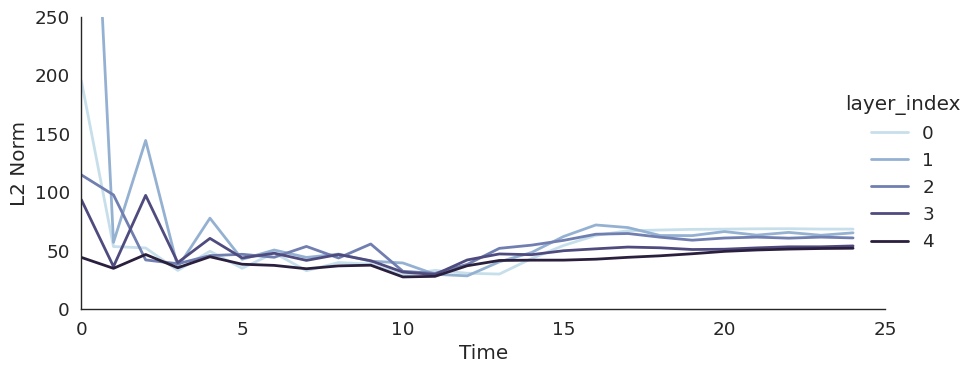
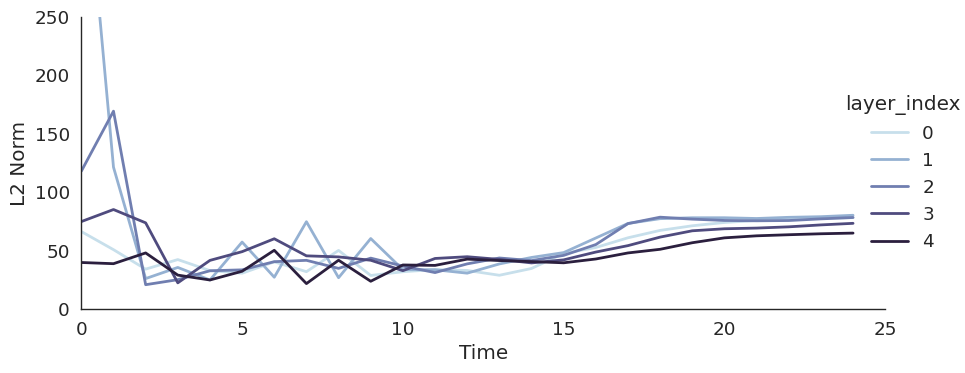
high prelabel

Changed region(s): [[0.0622, 0.2654, 0.9016, 0.7668], [0.0933, 0.059, 0.1244, 0.1475]]

diff --git a/RecurrentFF/model/hidden_layer.py b/RecurrentFF/model/hidden_layer.py
@@ -245,30 +245,14 @@ class HiddenLayer(nn.Module):
         if isTraining:
             activations_dim = self.train_activations_dim
 
-            # TODO: remove
-            if torch.equal(self.stable_state_activations, torch.zeros(1, 1).to(self.settings.device.device)):
-                pos_activations_current = torch.zeros(
-                    activations_dim[0], activations_dim[1]).to(
-                    self.settings.device.device)
-                pos_activations_previous = torch.zeros(
-                    activations_dim[0], activations_dim[1]).to(
-                    self.settings.device.device)
-                neg_activations_current = torch.zeros(
-                    activations_dim[0], activations_dim[1]).to(
-                    self.settings.device.device)
-                neg_activations_previous = torch.zeros(
-                    activations_dim[0], activations_dim[1]).to(
-                    self.settings.device.device)
-
-            else:
-                pos_activations_stable_state = retrieve_random_stable_state_activations(self.stable_state_activations,
-                                                                                        self.settings.data_config.train_batch_size)
-                neg_activations_stable_state = retrieve_random_stable_state_activations(self.stable_state_activations,
-                                                                                        self.settings.data_config.train_batch_size)
-                pos_activations_current = pos_activations_stable_state.clone()
-                pos_activations_previous = pos_activations_stable_state.clone()
-                neg_activations_current = neg_activations_stable_state.clone()
-                neg_activations_previous = neg_activations_stable_state.clone()
+            pos_activations_stable_state = retrieve_random_stable_state_activations(self.stable_state_activations,
+                                                                                    self.settings.data_config.train_batch_size)
+            neg_activations_stable_state = retrieve_random_stable_state_activations(self.stable_state_activations,
+                                                                                    self.settings.data_config.train_batch_size)
+            pos_activations_current = pos_activations_stable_state.clone()
+            pos_activations_previous = pos_activations_stable_state.clone()
+            neg_activations_current = neg_activations_stable_state.clone()
+            neg_activations_previous = neg_activations_stable_state.clone()
 
             self.pos_activations = Activations(
                 pos_activations_current, pos_activations_previous)
@@ -279,19 +263,10 @@ class HiddenLayer(nn.Module):
         else:
             activations_dim = self.test_activations_dim
 
-            # TODO: remove
-            if torch.equal(self.stable_state_activations, torch.zeros(1, 1).to(self.settings.device.device)):
-                predict_activations_current = torch.zeros(
-                    activations_dim[0], activations_dim[1]).to(
-                    self.settings.device.device)
-                predict_activations_previous = torch.zeros(
-                    activations_dim[0], activations_dim[1]).to(
-                    self.settings.device.device)
-            else:
-                activations_stable_state = retrieve_random_stable_state_activations(self.stable_state_activations,
-                                                                                    self.settings.data_config.test_batch_size)
-                predict_activations_current = activations_stable_state.clone()
-                predict_activations_previous = activations_stable_state.clone()
+            activations_stable_state = retrieve_random_stable_state_activations(self.stable_state_activations,
+                                                                                self.settings.data_config.test_batch_size)
+            predict_activations_current = activations_stable_state.clone()
+            predict_activations_previous = activations_stable_state.clone()
 
             self.predict_activations = Activations(
                 predict_activations_current, predict_activations_previous)

diff --git a/RecurrentFF/model/model.py b/RecurrentFF/model/model.py
@@ -46,7 +46,7 @@ def generate_activation_initialization_samples(noise: torch.Tensor, processor: S
 
     # run the network on the noise for timesteps until stable state
     for _preinit_step in range(
-            0, 1000):
+            0, 30):
         inner_layers.advance_layers_forward(
             ForwardMode.PositiveData, noise, preinit_upper_clamped_tensor, False)
 
@@ -141,9 +141,10 @@ class RecurrentFFNet(nn.Module):
             "_" + datetime.now().strftime("%Y-%m-%d_%H-%M-%S") + "_" + ''.join(
                 random.choices(string.ascii_uppercase + string.digits, k=6)) + ".pth"
 
+        # TODO: add this to the image on training
         self.noise = torch.randn(
             self.settings.data_config.train_batch_size,
-            self.settings.data_config.data_size).to(settings.device.device) / 100
+            self.settings.data_config.data_size).to(settings.device.device) / 1000
 
         logging.info("Finished initializing network")
 
@@ -201,7 +202,7 @@ class RecurrentFFNet(nn.Module):
         for epoch in range(0, self.settings.model.epochs):
             logging.info("Epoch: " + str(epoch))
 
-            self.attach_stable_state_preinitializations()
+            # self.attach_stable_state_preinitializations()
 
             for batch_num, (input_data, label_data) in enumerate(train_loader):
 

diff --git a/RecurrentFF/analysis/data_pipeline/collect_activations.py b/RecurrentFF/analysis/data_pipeline/collect_activations.py
@@ -10,7 +10,7 @@ from RecurrentFF.settings import Settings, DataConfig
 TEST_BATCH_SIZE = 1
 NUM_BATCHES = 1000
 
-WEIGHTS_PATH = "/home/andrew/Documents/projects/RecurrentForwardForward-search/MNIST_2023-11-13_18-51-01_8ZJSD7.pth"
+WEIGHTS_PATH = "/home/andrew/Documents/projects/RecurrentForwardForward-search/MNIST_2023-11-15_22-08-38_AGUO5M.pth"
 
 if __name__ == "__main__":
     settings = Settings.new()

diff --git a/RecurrentFF/analysis/seaborn/l2_norm_activations_truncated_filtered.py b/RecurrentFF/analysis/seaborn/l2_norm_activations_truncated_filtered.py
@@ -4,7 +4,7 @@ import matplotlib.pyplot as plt
 import numpy as np
 
 DATAFRAME_PATH = "./converted_data.parquet"
-FILTER_CLASS = 1
+FILTER_CLASS = 3
 
 # Load the parquet file
 df = pd.read_parquet(DATAFRAME_PATH)
